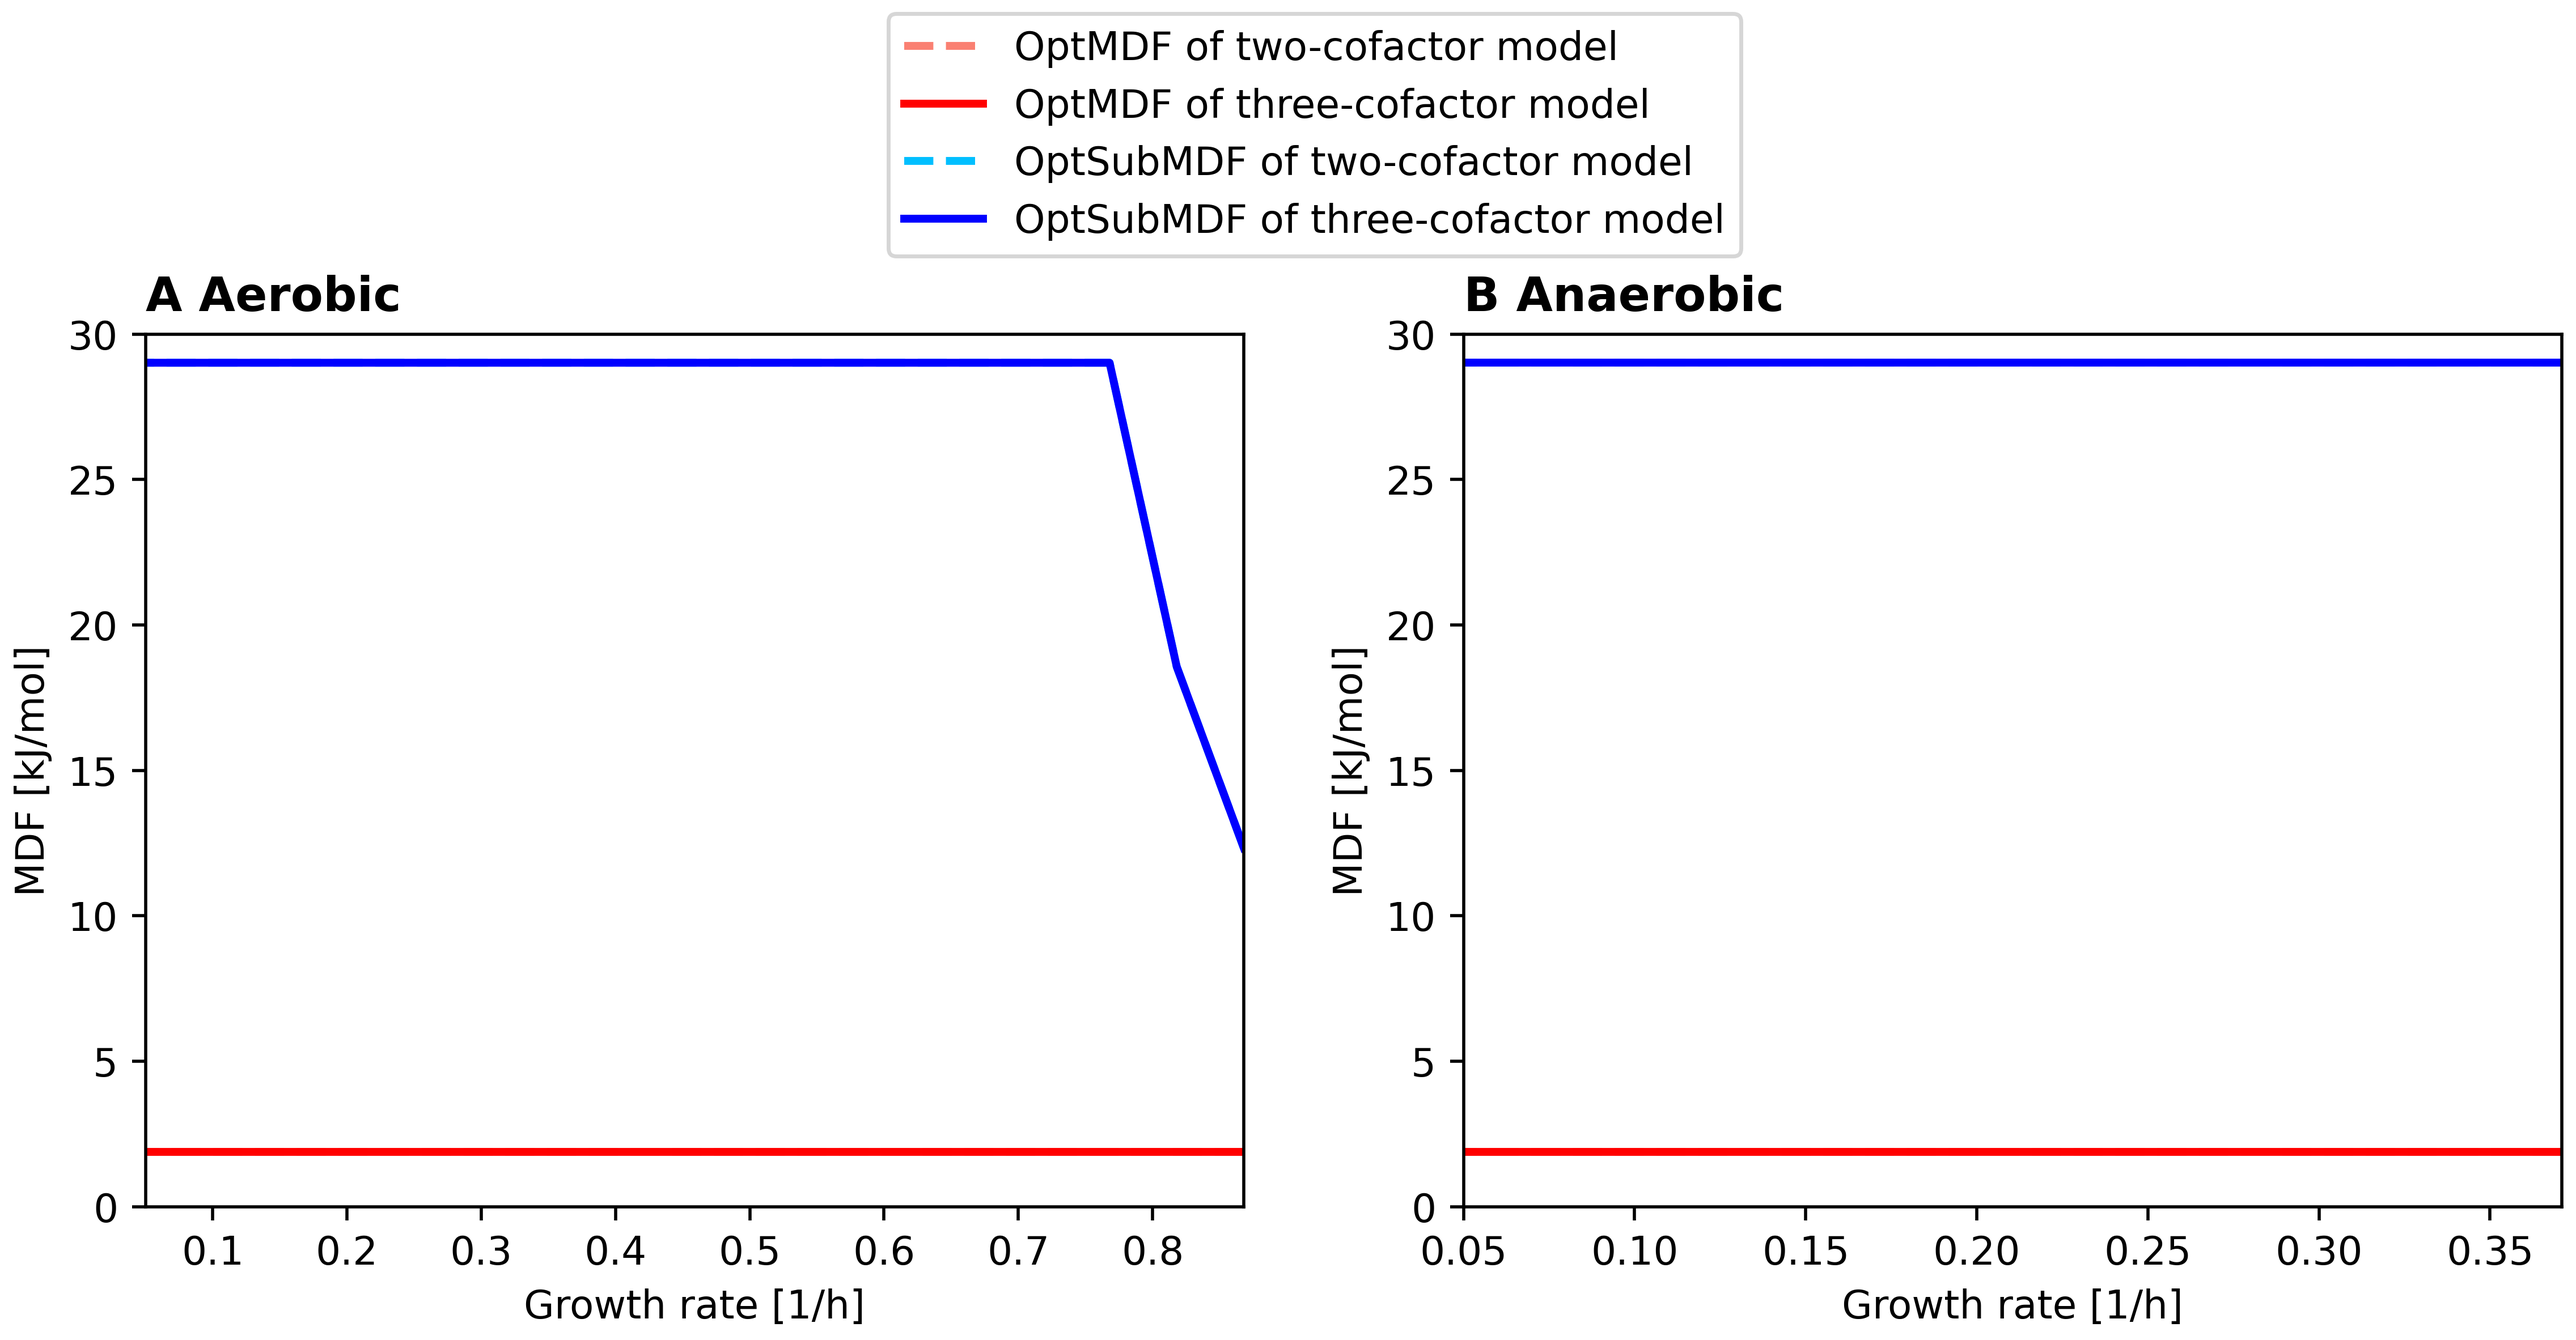
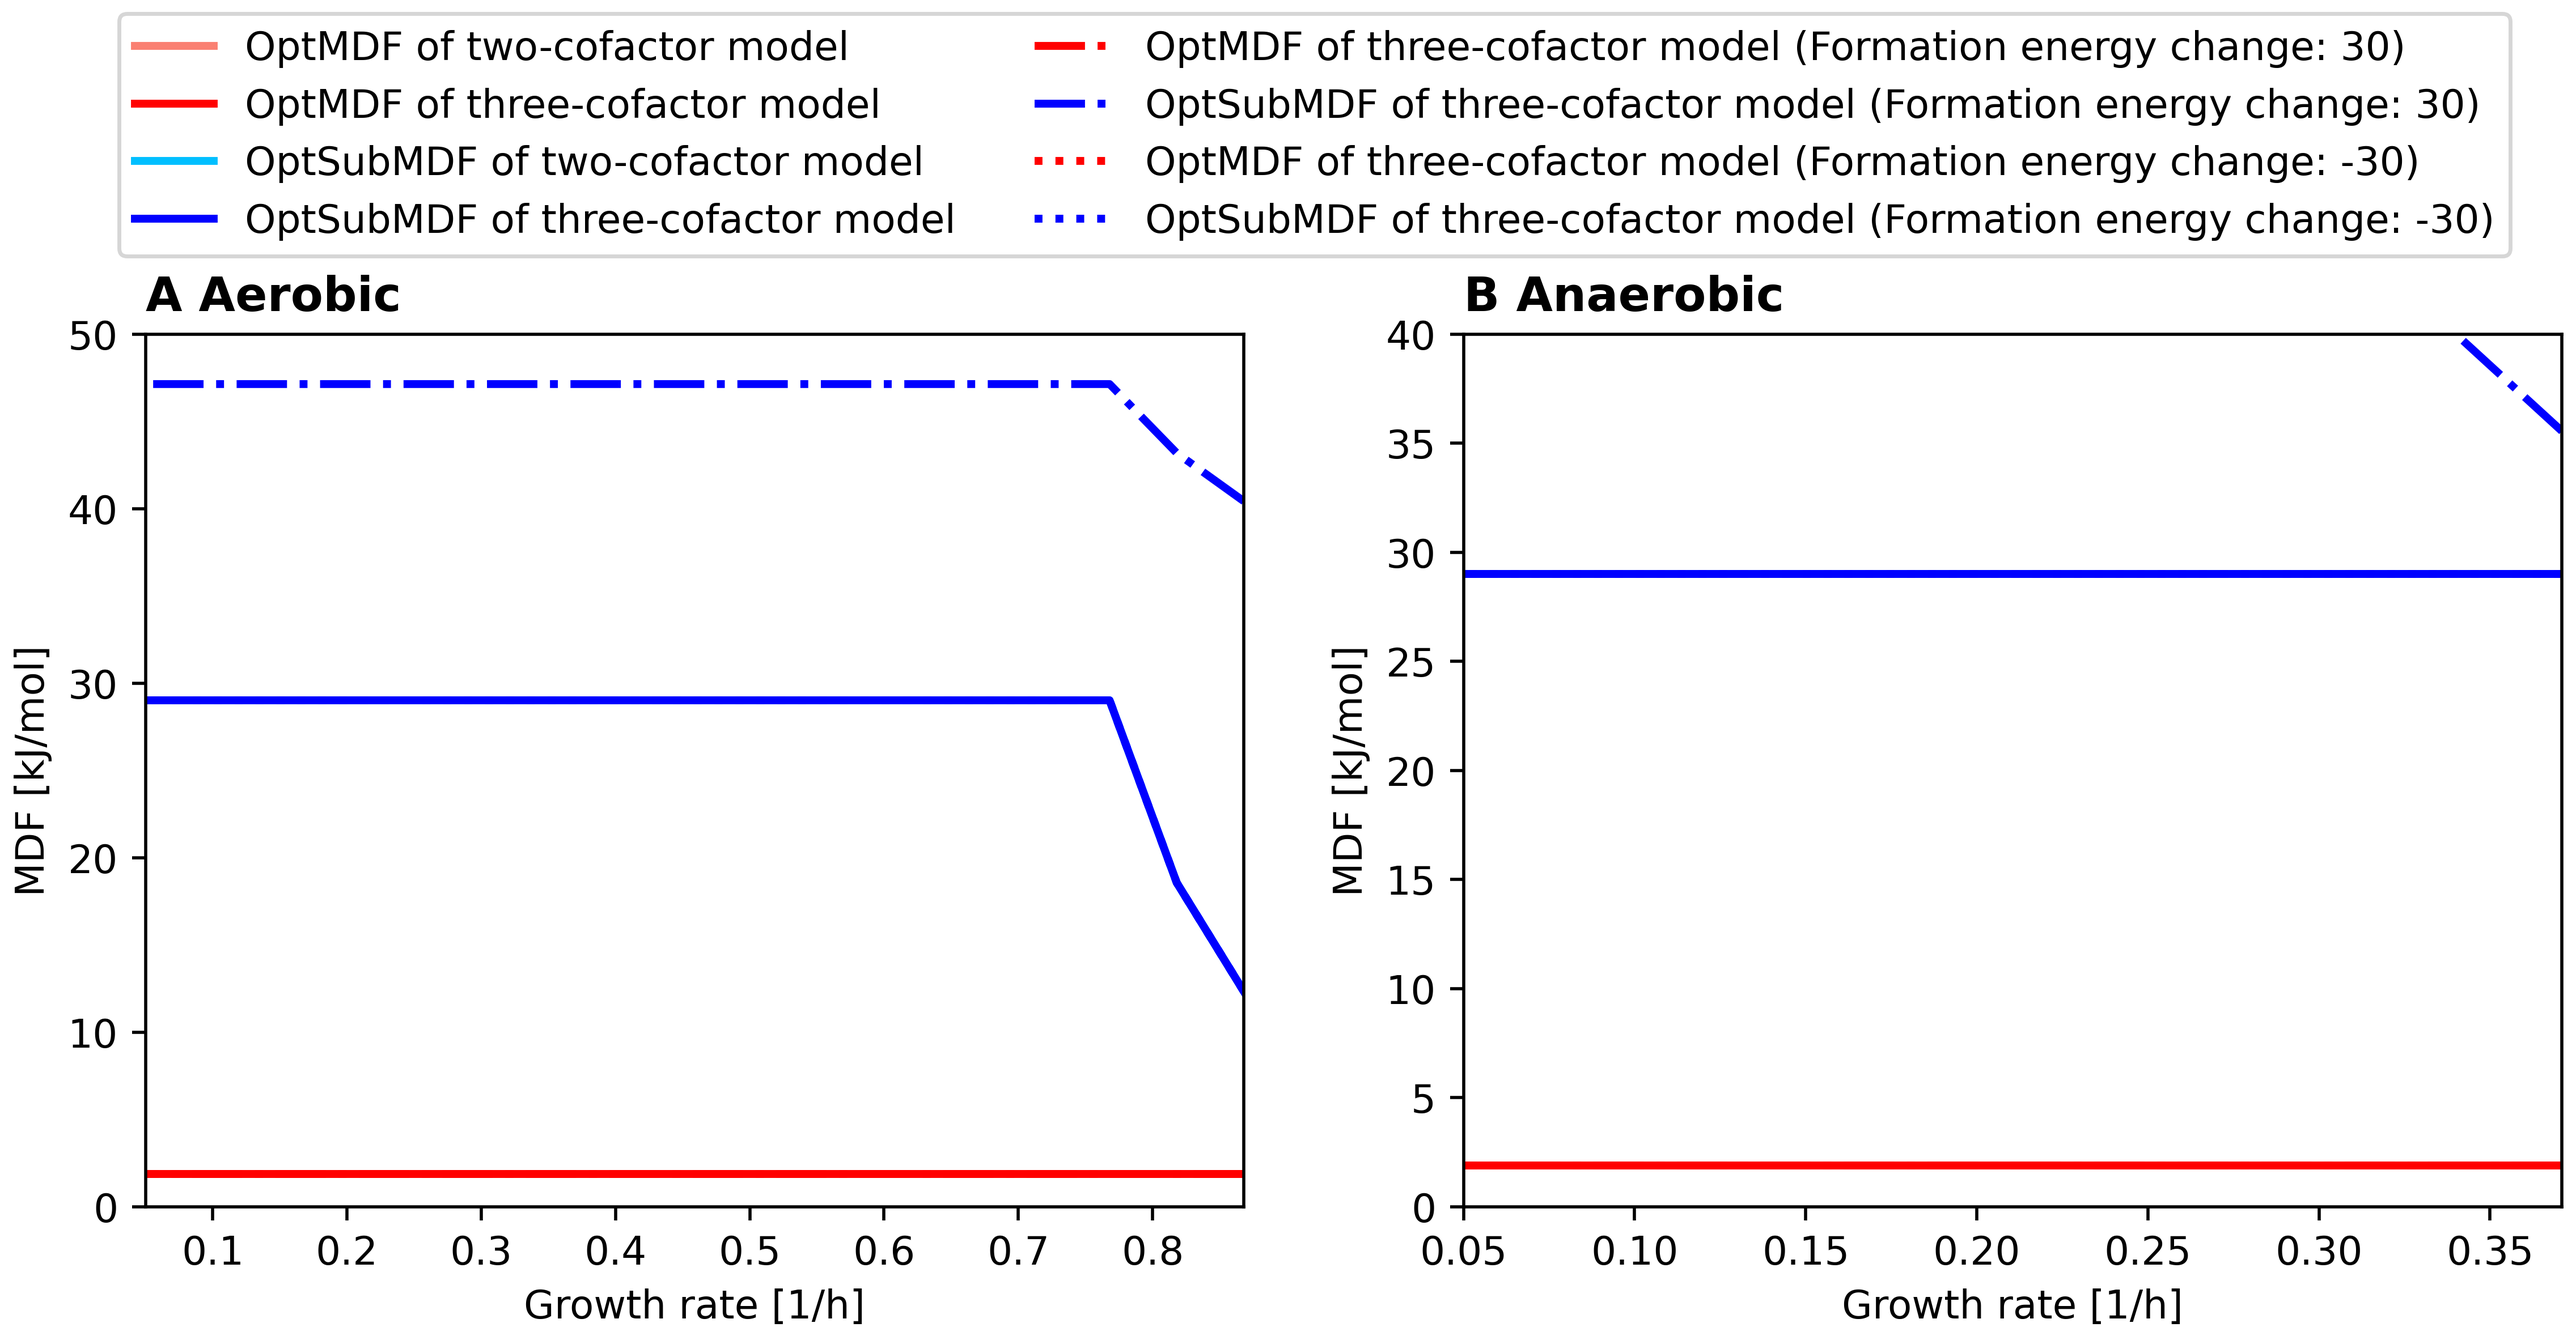
Expand expanded model figures

diff --git a/cosa_create_extended_model_figure.py b/cosa_create_extended_model_figure.py
@@ -50,12 +50,19 @@ for concentration_ranges in ("STANDARDCONC", "VIVOCONC"):
                 label_optmdf_three = None
                 label_optsubmdf_two = None
 
+            if change_state == 30:
+                linestyle = "-."
+            elif change_state == -30:
+                linestyle = ":"
+            else:
+                linestyle = "-"
+
             if change_state == 0:
                 axs[axs_row].plot(
                     growth_rates, # x
                     data_optmdf, # y
                     label=label_optmdf_two,
-                    linestyle="--",
+                    linestyle="-",
                     color="salmon",
                     linewidth=2.0,
                 )
@@ -63,7 +70,7 @@ for concentration_ranges in ("STANDARDCONC", "VIVOCONC"):
                 growth_rates, # x
                 data_optmdf_expanded, # y
                 label=label_optmdf_three,
-                linestyle="-",
+                linestyle=linestyle,
                 color="red",
                 linewidth=2.0,
             )
@@ -72,7 +79,7 @@ for concentration_ranges in ("STANDARDCONC", "VIVOCONC"):
                     growth_rates, # x
                     data_optsubmdf, # y
                     label=label_optsubmdf_two,
-                    linestyle="--",
+                    linestyle="-",
                     color="deepskyblue",
                     linewidth=2.0,
                 )
@@ -80,7 +87,7 @@ for concentration_ranges in ("STANDARDCONC", "VIVOCONC"):
                 growth_rates, # x
                 data_optsubmdf_expanded, # y
                 label=label_optsubmdf_three,
-                linestyle="-",
+                linestyle=linestyle,
                 color="blue",
                 linewidth=2.0,
             )
@@ -90,7 +97,11 @@ for concentration_ranges in ("STANDARDCONC", "VIVOCONC"):
             axs[axs_row].set_xlabel("Growth rate [1/h]")
             axs[axs_row].set_ylabel(r"MDF [kJ/mol]")
             axs[axs_row].set_xlim(min(growth_rates), max(growth_rates))
-            axs[axs_row].set_ylim(0.0, 30)
+
+            if axs_row == 0:
+                axs[axs_row].set_ylim(0.0, 50)
+            else:
+                axs[axs_row].set_ylim(0.0, 40)
 
         # plt.legend(loc="center left")
         # plt.title(f"Comparison of two-cofactor and expanded three-cofactor models\nunder {'anaerobic' if anaerobic else 'aerobic'} conditions")
@@ -99,6 +110,6 @@ for concentration_ranges in ("STANDARDCONC", "VIVOCONC"):
         # plt.xlim(min(growth_rates), max(growth_rates))
         # plt.savefig(f"cosa/results_{aerobicity}/expanded_comparison_{aerobicity}_{concentration_ranges}.jpg")
         # plt.close()
-    fig.legend(loc="upper center", bbox_to_anchor=(0.5, 1.18))
+    fig.legend(loc="upper center", bbox_to_anchor=(0.5, 1.18), ncol=2)
     fig.savefig(f"cosa/expanded_comparison_{concentration_ranges}.png", bbox_inches='tight', pad_inches=0.05)
     plt.close()
